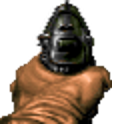
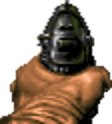
Added shotgun animations

diff --git a/assets.go b/assets.go
@@ -12,14 +12,17 @@ import (
 // The resources struct will hold textures, sounds, and potentially fonts
 type Resources struct {
 	images map[string]*sf.Texture
+	textures []*sf.Image
 }
 
 func NewResources() *Resources {
 	r := new(Resources)
 
 	r.images = make(map[string]*sf.Texture)
+	r.textures = make ([]*sf.Image, 0)
 
 	r.LoadAllImages("./assets/images")
+	r.LoadTextures ("./assets/images")
 
 	return r
 }
@@ -39,6 +42,24 @@ func (r *Resources) LoadAllImages(dir string) {
 		} else if filepath.Ext(f.Name()) == ".png" {
 			texture := sf.NewTexture(dir + "/" + f.Name())
 			r.images[f.Name()] = texture
+		}
+	}
+}
+
+func (r *Resources) LoadTextures(dir string) {
+	files, err := ioutil.ReadDir(dir)
+
+	if err != nil {
+		fmt.Println(err)
+		return
+	}
+
+	for _, f := range files {
+		if f.IsDir() {
+			r.LoadTextures(dir + "/" + f.Name())
+		} else if filepath.Ext(f.Name()) == ".png" {
+			filename := dir + "/" + f.Name()
+			r.textures = append (r.textures, sf.NewImage (filename))
 		}
 	}
 }

diff --git a/player.go b/player.go
@@ -11,6 +11,7 @@ var (
 	// There will be one weapon for each set of weapon sprites see assets/images/weapons
 	chainsaw *Weapon
 	pistol *Weapon
+	shotgun *Weapon
 )
 
 type Weapon struct {
@@ -32,6 +33,7 @@ type Player struct {
 func InitWeapons() {
 	chainsaw = NewWeapon ([]int {0, 1}, []int {2, 3}, "chainsaw", 30, true)
 	pistol = NewWeapon ([]int {13}, []int {12, 11, 10, 8, 10}, "pistol", 100, false)
+	shotgun = NewWeapon ([]int {33}, []int {32, 28, 31, 28}, "shotgun", 100, false)
 }
 
 // Currently, the player's only purpose is to keep track of the currently equipped weapon, but later it may have health or other attributes
@@ -88,7 +90,7 @@ func (w *Weapon) Animate () {
 		}
 
 		if !w.continuousActive {
-			time.Sleep (time.Duration (w.animateSpeed) * 2 * time.Millisecond)
+			time.Sleep (time.Duration (w.animateSpeed) * time.Millisecond)
 
 			w.attack = false
 		}

diff --git a/main.go b/main.go
@@ -73,6 +73,8 @@ func main() {
 					player.currentWeapon = chainsaw
 				} else if event.Key.Code == sf.KeyNum2 {
 					player.currentWeapon = pistol
+				} else if event.Key.Code == sf.KeyNum3 {
+					player.currentWeapon = shotgun
 				}
 
 				break
